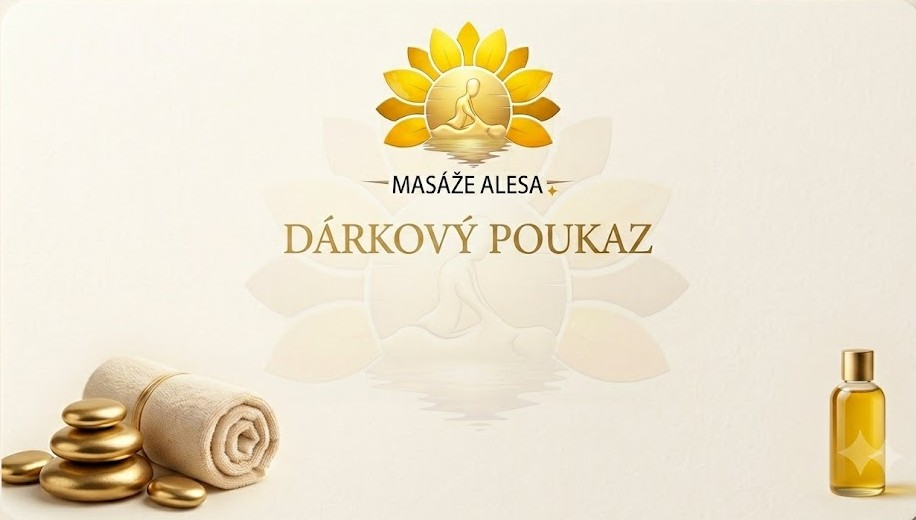
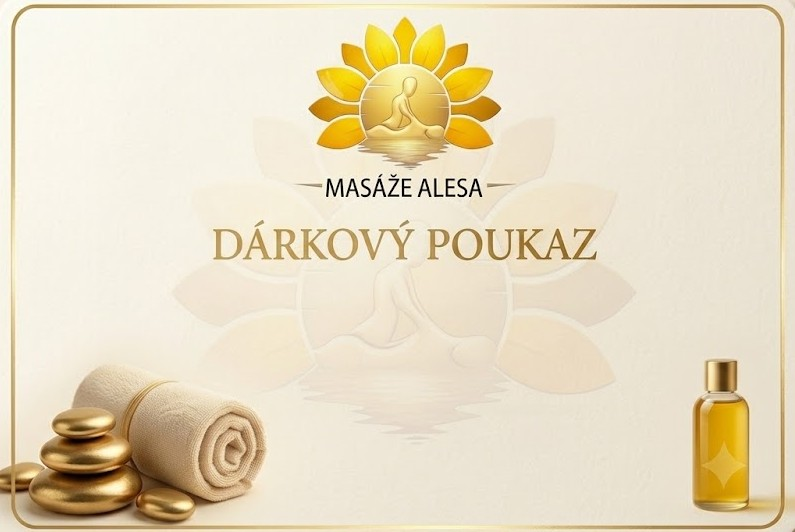
Použít nové pozadí klasického poukazu a doladit pozice textu
Nový obrázek má logo i nadpis vepálené přímo v grafice (žádný overlay
navíc) a jiný poměr stran — přepočítány pozice pro Pro/Hodnota/Platnost
a čárový kód, ať sedí do volného prostoru uprostřed obrázku.

diff --git a/index.html b/index.html
@@ -2319,11 +2319,11 @@ function eanBarcodeSvg(ean13, barH) {
 var UKAZKA_SABLONY = {
   klasicky: {
     obrazek: 'assets/poukaz.jpg',
-    pomer: '916/520',
+    pomer: '795/532',
     logo: false,
-    box: { left: '30%', right: '8%' },
-    radky: { pro: '50%', hodnota: '58%', platnost: '66%' },
-    spodek: { top: '78%', left: '34%', right: '14%' }
+    box: { left: '10%', right: '10%' },
+    radky: { pro: '42%', hodnota: '53%', platnost: '64%' },
+    spodek: { top: '80%', left: '32%', right: '32%' }
   },
   vanocni: {
     obrazek: 'assets/vanocni-poukaz.jpg',
